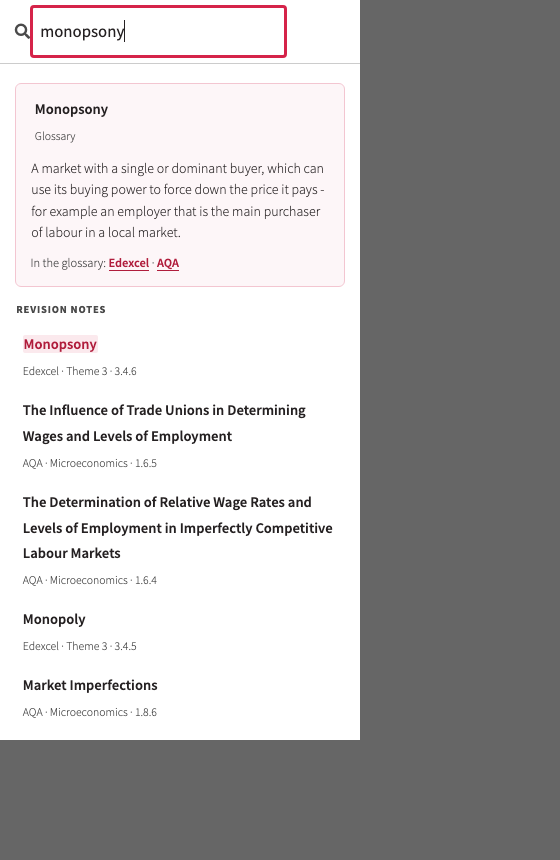
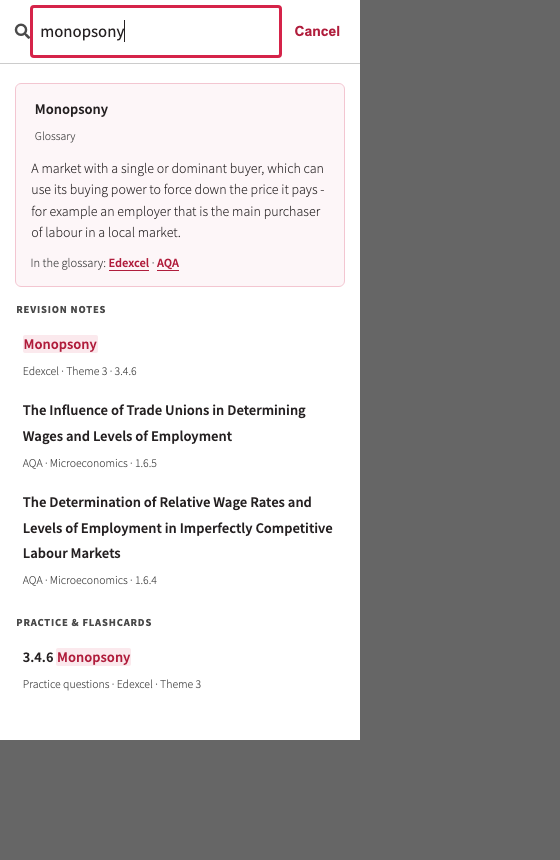
Move the header search box top-right on desktop; a visible Cancel closes it
Eliot's second review of the mock. Desktop: the pill floats top-right in
the header's 5em top padding instead of centred; mobile keeps the in-flow
box above the title. Exit: the overlay bar now carries a visible 'Cancel'
button - on a phone Esc and the clickable backdrop do not exist, and the
x it replaces was too easy to miss. It was also literally invisible:
main.css's global button rule declares color: #fff !important, so both
the x and the first Cancel rendered white on white; countered with the
same !important the .consent-button block already uses, with a comment
citing the trap. Screenshots re-taken at both widths.

Changed region(s): [[0.0304, 0.6953, 0.3643, 0.8465], [0.4857, 0.0, 0.6071, 0.0605]]

diff --git a/_working/site-search/site-search.css b/_working/site-search/site-search.css
@@ -8,15 +8,14 @@
 
 /* The baked <a> in templates/header.html. With scripting off it is a real
    link to /revision-notes/; site-search.js upgrades it to open the overlay.
-   Drawn as a search box, centred above the site title, in the brand pink -
-   Eliot's call, 2026-08-24. Positioned against #header, which is already
-   position: relative; the header's existing 5em top padding is the space
-   it sits in, so no page content moves. */
+   Drawn as a search box in the brand pink, top-right of the header on
+   desktop - Eliot's calls, 2026-08-24. Positioned against #header, which
+   is already position: relative; the header's existing 5em top padding is
+   the space it sits in, so no page content moves. */
 .site-search-open {
   position: absolute;
   top: 1.15em;
-  left: 50%;
-  transform: translateX(-50%);
+  right: 1.25em;
   display: inline-flex;
   align-items: center;
   gap: 0.55em;
@@ -63,7 +62,6 @@
      no layout shift. */
   .site-search-open {
     position: static;
-    transform: none;
     margin: 0 auto 1.3em;
     width: 13em;
   }
@@ -163,21 +161,30 @@
   border-radius: 4px;
 }
 
+/* A visible "Cancel", not an x: Esc and the clickable backdrop do not
+   exist on a phone, and a small glyph was too easy to miss. 44px tall,
+   so it is a comfortable tap target.
+
+   color needs !important because main.css's global `button` rule declares
+   `color: #fff !important` - without it the label renders white on white
+   and the button disappears, which is exactly how the mock's first close
+   button vanished. Same counter-declaration the .consent-button block
+   already uses. */
 .site-search__close {
   border: 0;
   background: transparent;
-  color: #4a4a4a;
-  font-size: 1.5em;
+  color: #b01d3c !important;
+  font-size: 0.95em;
+  font-weight: 600;
   line-height: 1;
-  width: 1.8em;
-  height: 1.8em;
+  min-height: 44px;
+  padding: 0 0.9em;
   border-radius: 4px;
   cursor: pointer;
 }
 
 .site-search__close:hover {
   background: #fbe9ed;
-  color: #b01d3c;
 }
 
 .site-search__close:focus-visible {

diff --git a/_working/site-search/site-search.js b/_working/site-search/site-search.js
@@ -358,8 +358,7 @@
       ' autocomplete="off" autocorrect="off" autocapitalize="off"' +
       ' spellcheck="false" enterkeyhint="go"' +
       ' placeholder="Search topics, definitions, resources…">' +
-      '<button type="button" class="site-search__close"' +
-      ' aria-label="Close search">&#215;</button>' +
+      '<button type="button" class="site-search__close">Cancel</button>' +
       "</div>" +
       '<div class="site-search__status" role="status"></div>' +
       '<div class="site-search__results" id="site-search-results"' +

diff --git a/_working/site-search/PROPOSAL.md b/_working/site-search/PROPOSAL.md
@@ -55,12 +55,17 @@ a published file, so it will be listed with the runtime-fetched JSON in
 ## Decisions taken in this mock (flag anything you'd change)
 
 1. **The header control is a visible search box, not a bare icon** —
-   Eliot's call, 2026-08-24: a pink pill (magnifier + "Search…") centred
-   above the site title, in the brand palette (`#fdf6f8` fill, `#f3c6d1`
-   border, `#b01d3c` text, `#d52349` icon). On desktop it floats in the
+   Eliot's calls, 2026-08-24: a pink pill (magnifier + "Search…") in the
+   brand palette (`#fdf6f8` fill, `#f3c6d1` border, `#b01d3c` text,
+   `#d52349` icon). On desktop it sits top-right, floating in the
    header's existing 5em top padding, so nothing moves; below 768px it
-   sits in normal flow above the title and the header grows ~3em to fit —
-   baked markup, there from first paint, so no layout shift.
+   sits in normal flow centred above the site title and the header grows
+   ~3em to fit — baked markup, there from first paint, so no layout
+   shift. Closing the overlay is a visible "Cancel" button in the search
+   bar (Esc and the clickable backdrop do not exist on a phone; the
+   first cut's small × also rendered invisible, because main.css's
+   global `button` rule paints button text white — countered the same
+   way `.consent-button` does).
 2. **No dead control without JavaScript**: that control is an
    `<a href="/revision-notes/">` — a real destination with scripting
    off — and the script upgrades it to open the overlay. (The alternative
@@ -106,7 +111,7 @@ by the script.
 | The header search box (visible, on all 463 pages) | "Search…" |
 | Header link, title-bar button, dialog, input (aria-labels) | "Search this site" |
 | Input placeholder | "Search topics, definitions, resources…" |
-| Close button (aria-label; shows ×) | "Close search" |
+| Close button (visible, in the overlay bar) | "Cancel" |
 | Group headings | "Revision notes" · "Glossary" · "Practice & flashcards" · "Pages" |
 | Result meta labels | "Practice questions" · "Past paper questions" · "Flashcards" · "Glossary" · "Formula" · "FAQ" · "Tutoring" · "Marking" · "Contact" · "About" · "Privacy" · "Revision notes" · "Diagram gallery" · "Past papers" · "Economics Academy" |
 | Empty state | "Try a topic, a term, or a page — or jump straight in:" |
